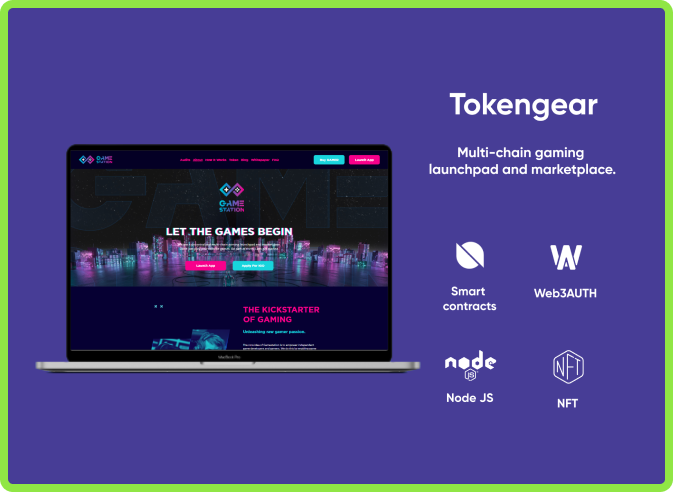
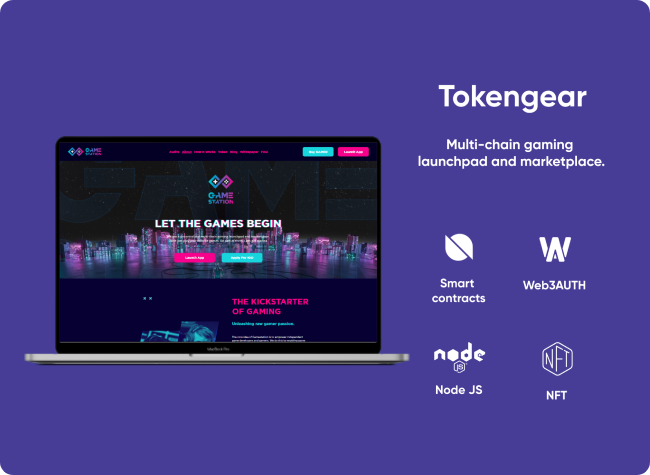
fix: Fixed images frames and height

diff --git a/src/components/ModalComponents/ModalCategoryAllWorkCard.tsx b/src/components/ModalComponents/ModalCategoryAllWorkCard.tsx
@@ -12,12 +12,15 @@ const ModalCategoryAllWorkCard: FC<IModalProjectCardProps> = ({
 }) => {
   return (
     <StyledCategory.ProjectContainer>
-      <ImagePreview
-        src={url}
-        placeholder="blur"
-        alt={"alt image card"}
-        quality={100}
-      />
+      <StyledCategory.ProjectImg>
+        <ImagePreview
+          src={url}
+          placeholder="blur"
+          alt={"alt image card"}
+          quality={100}
+        />
+      </StyledCategory.ProjectImg>
+
       <StyledCategory.ContentWrapper>
         <StyledCategory.ContentWrapper>
           <StyledCategory.MainContent>

diff --git a/src/styles/ModalCategory.styled.ts b/src/styles/ModalCategory.styled.ts
@@ -234,8 +234,12 @@ export const ProjectContainer = styled.div`
 
   @media ${themes.primary.media.maxLowScreenMobile} {
     width: 100%;
-    height: 42em;
+    height: 45em;
   }
+`;
+
+export const ProjectImg = styled.div`
+  height: fit-content;
 `;
 
 export const ProjectSpecifyTechnologyContainer = styled.div`
